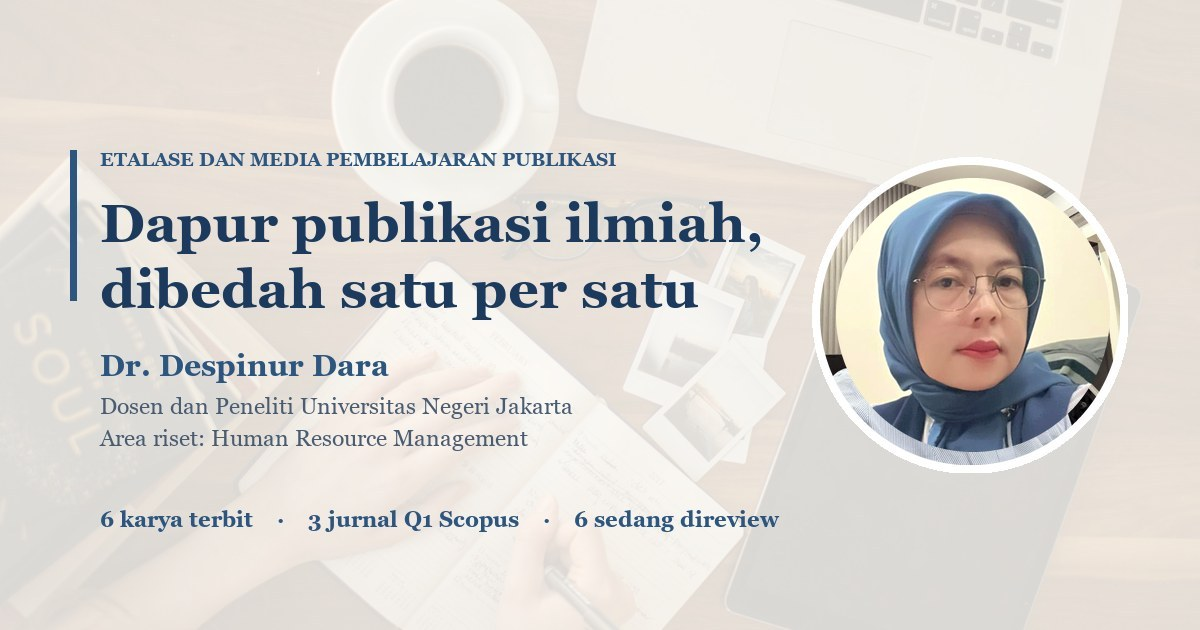
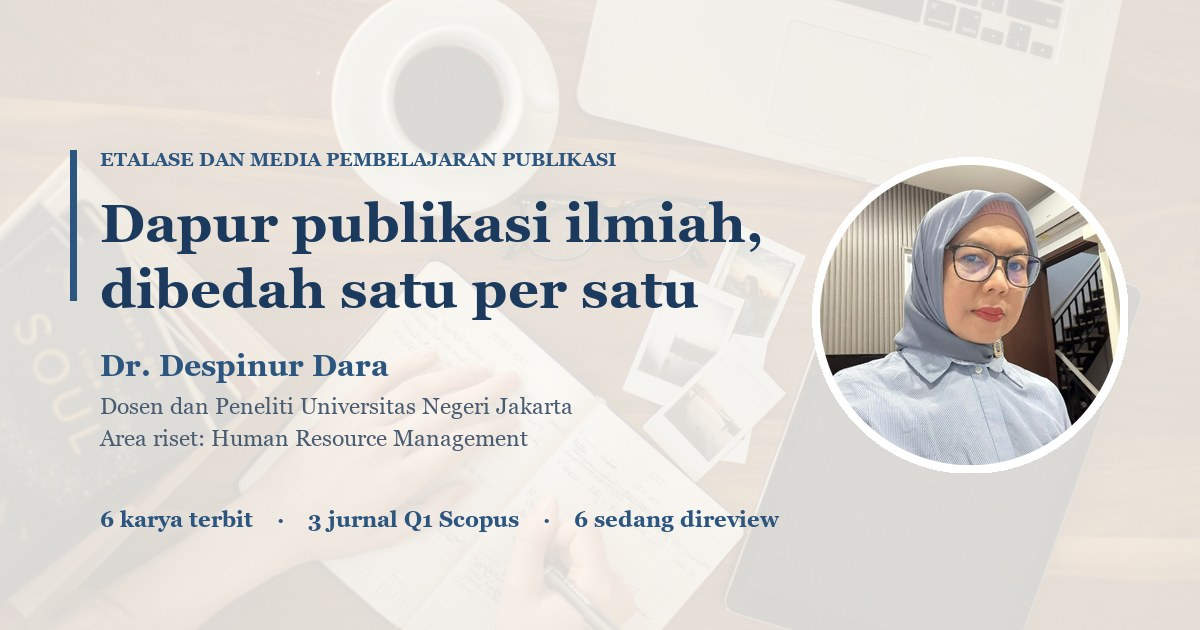
Foto baru dipakai di halaman profil saja, beranda tetap foto lama
Beranda dan gambar bagikan dikembalikan ke foto sebelumnya. Foto terbaru
disimpan terpisah sebagai foto-dara-profil.jpg dan dipasang di halaman
Profil Penulis, versi Indonesia maupun Inggris.

Changed region(s): [[0.6783, 0.2714, 0.925, 0.7238]]

diff --git a/en/tentang.html b/en/tentang.html
@@ -86,7 +86,7 @@
   <section class="section">
     <div class="container">
       <div class="profile">
-        <div class="photo"><img src="../assets/foto-dara.jpg" alt="Photo of Dr. Despinur Dara"></div>
+        <div class="photo"><img src="../assets/foto-dara-profil.jpg" alt="Photo of Dr. Despinur Dara"></div>
         <div>
           <h2>Dr. Despinur Dara, S.T., M.M.</h2>
           <p>Permanent lecturer at the Faculty of Economics, Universitas Negeri Jakarta &middot; Certified Professional in Human Capital Management &middot; Certified Human Capital Business Partner</p>

diff --git a/tentang.html b/tentang.html
@@ -86,7 +86,7 @@
   <section class="section">
     <div class="container">
       <div class="profile">
-        <div class="photo"><img src="assets/foto-dara.jpg" alt="Foto Dr. Despinur Dara"></div>
+        <div class="photo"><img src="assets/foto-dara-profil.jpg" alt="Foto Dr. Despinur Dara"></div>
         <div>
           <h2>Dr. Despinur Dara, S.T., M.M.</h2>
           <p>Dosen tetap Fakultas Ekonomi Universitas Negeri Jakarta &middot; Certified Professional in Human Capital Management &middot; Certified Human Capital Business Partner</p>
